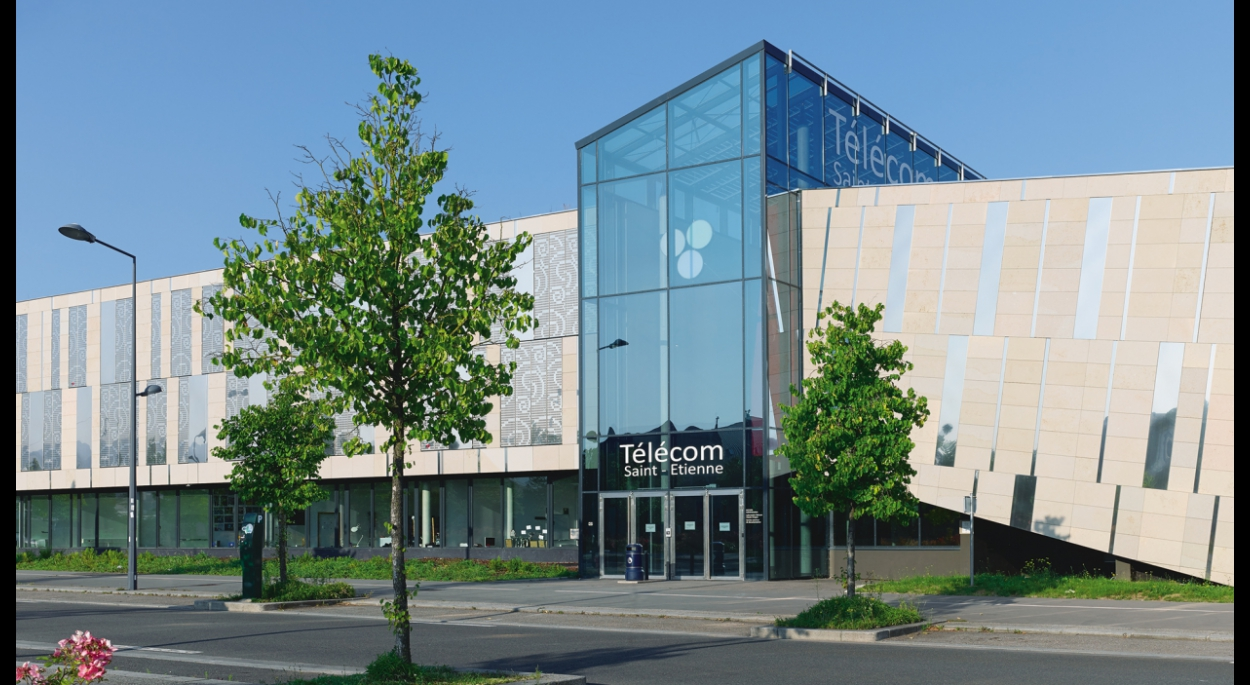
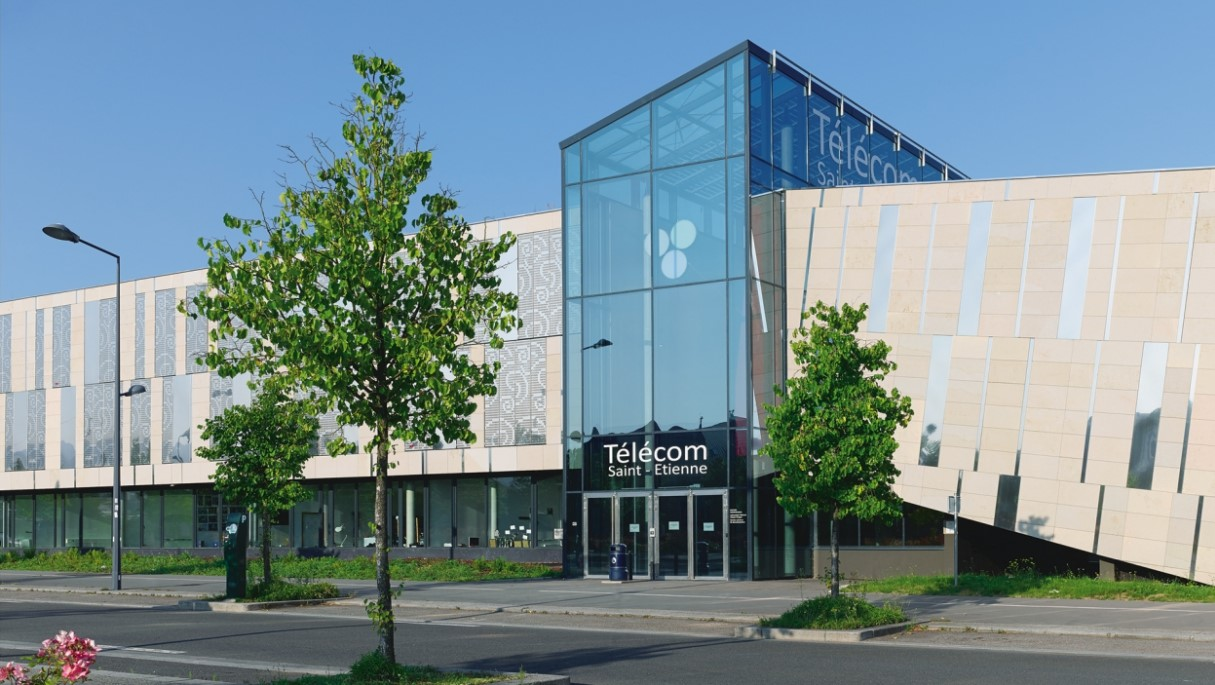
Updated images dimensions in timeline

Changed region(s): [[0.4568, 0.0, 1.0, 1.0], [0.0, 0.0, 0.4568, 1.0], [0.7918, 0.9197, 0.8222, 0.9504]]

diff --git a/components/timeline/timeline.tsx b/components/timeline/timeline.tsx
@@ -16,7 +16,7 @@ export const Timeline = () => {
       <Image
         isZoomed
         alt="Columbia University"
-        className="object-cover w-full h-full"
+        className="object-cover w-[400px] h-[230px]"
         src="/columbia_university.jpg"
       />
       <span className="text-primary-500">New York City, NY, USA</span>
@@ -25,7 +25,7 @@ export const Timeline = () => {
       <Image
         isZoomed
         alt="Telecom Saint-Etienne"
-        className="object-cover w-full h-full"
+        className="object-cover w-[400px] h-[230px]"
         src="/telecom_saint_etienne.jpeg"
       />
       <span className="text-primary-500">Saint-Étienne, France</span>
@@ -34,7 +34,7 @@ export const Timeline = () => {
       <Image
         isZoomed
         alt="Lycee du Parc"
-        className="object-cover w-full h-full"
+        className="object-cover w-[400px] h-[200px]"
         src="/lycee_du_parc.jpg"
       />
       <span className="text-primary-500">Lyon, France</span>
